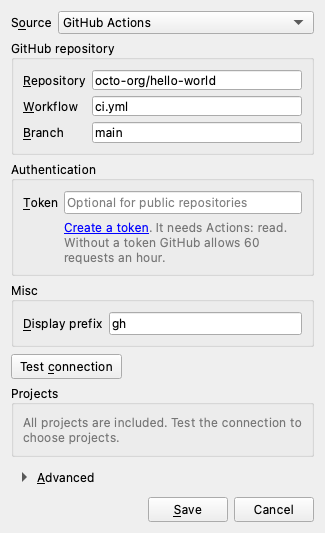
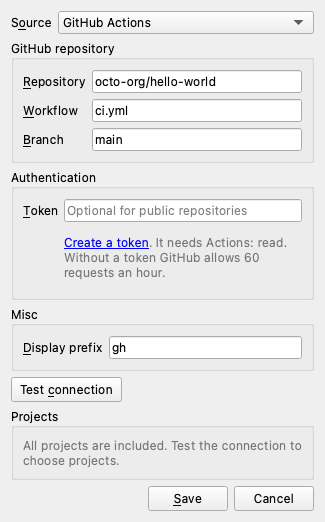
Hide the empty Advanced section for GitHub servers
TASK-81. The time zone only applies to cctray feeds; its value is kept across kind switches.

diff --git a/test/integration/server_configuration_dialog_test.py b/test/integration/server_configuration_dialog_test.py
@@ -372,7 +372,7 @@ def test_should_show_github_fields_when_github_is_selected(qtbot):
     assert dialog.cctray.isHidden()
     assert dialog.auth.authentication_type.isHidden()
     assert dialog.auth.username.isHidden()
-    assert dialog.timezone.isHidden()
+    assert dialog.advanced.isHidden()
     assert dialog.auth.password_label.text().replace("&", "") == "Token"
 
     dialog.source_kind.setCurrentIndex(0)
@@ -1054,6 +1054,34 @@ def test_should_keep_none_as_the_stored_value_of_the_default_entry(qtbot):
 
     assert dialog.timezone.currentText() == FEED_OFFSET
     assert dialog.get_server_config().timezone == "None"
+
+
+def test_should_hide_advanced_for_github_and_show_it_again_for_cctray(qtbot):
+    dialog = open_dialog(qtbot, None)
+    assert dialog.advanced.isVisible()
+
+    dialog.source_kind.setCurrentIndex(1)
+    assert not dialog.advanced.isVisible()
+
+    dialog.source_kind.setCurrentIndex(0)
+    assert dialog.advanced.isVisible()
+
+
+def test_should_hide_advanced_when_opening_a_github_server(qtbot):
+    dialog = open_dialog(qtbot, github_server())
+
+    assert not dialog.advanced.isVisible()
+
+
+def test_should_keep_the_time_zone_across_kind_switches(qtbot):
+    dialog = open_dialog(qtbot, ServerSettings("http://localhost:8080/cc.xml", timezone="Asia/Kolkata"))
+
+    dialog.source_kind.setCurrentIndex(1)
+    assert dialog.get_server_config().timezone == "None"
+    dialog.source_kind.setCurrentIndex(0)
+
+    assert dialog.timezone.currentText() == "Asia/Kolkata"
+    assert dialog.get_server_config().timezone == "Asia/Kolkata"
 
 
 def completions(dialog, text):

diff --git a/buildnotifylib/ui/dialogs/server/dialog.py b/buildnotifylib/ui/dialogs/server/dialog.py
@@ -232,7 +232,7 @@ class ServerConfigurationDialog(QDialog):
         github = KINDS[index] is SourceKind.GITHUB
         self.github.setVisible(github)
         self.cctray.setVisible(not github)
-        self.timezone_form.setRowVisible(self.timezone, not github)
+        self.advanced.setVisible(not github)
         self.auth.show_type(not github)
         if github:
             self.auth.show_token_field()
